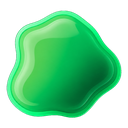
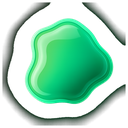
Boot branding, persistence offered from the desktop, wordmark
The boot menu no longer says Debian. A binary hook replaces the swirl splash
with the wordmark and retitles the entries, in isolinux and grub, and warns
loudly if it found neither rather than shipping an image that quietly still
says Debian.

The shell now notices when it booted from live media with unallocated space
left on the stick and offers persistence, instead of it being a feature that
only exists if somebody tells you a command exists. It does not repartition on
a click: the offer opens symbiote-persist, which names the device and its size
and makes you type ERASE.

symbiote-persist gains that `auto` mode — the shell was already calling it
before it existed.

Copyright is Symbiote OS.

diff --git a/shell-qt/qml/components/Taskbar.qml b/shell-qt/qml/components/Taskbar.qml
@@ -62,14 +62,10 @@ Item {
         HoverHandler { id: menuHover }
         TapHandler { onTapped: root.menuToggled() }
 
-        Rectangle {
-            anchors.fill: parent
-            color: (menuHover.hovered || root.launcherOpen)
-                   ? Theme.tint(0.08) : "transparent"
-            border.width: 1
-            border.color: (menuHover.hovered || root.launcherOpen)
-                          ? Theme.accent : Theme.tint(0.10)
-        }
+        /* No frame. The mark is a shape with its own silhouette, and boxing it
+           made the corner look like a button with a sticker on it. The hover
+           state is the mark itself brightening and growing slightly, which is
+           what a physical thing does when you reach for it. */
 
         /* The mass itself. This corner is where a system puts its mark, and
            the shell had a generic app-grid there — correct as a convention,
@@ -79,16 +75,19 @@ Item {
         Image {
             id: menuRow
             anchors.centerIn: parent
-            width: 26; height: 26
-            source: "qrc:/assets/symbiote-64.png"
+            width: 30; height: 30
+            source: "qrc:/assets/symbiote-128.png"
             fillMode: Image.PreserveAspectFit
             smooth: true
             sourceSize.width: 64
             sourceSize.height: 64
             // Dimmed until wanted, so it sits in the bar rather than shouting
             // from it.
-            opacity: (menuHover.hovered || root.launcherOpen) ? 1.0 : 0.82
+            opacity: (menuHover.hovered || root.launcherOpen) ? 1.0 : 0.78
+            scale: (menuHover.hovered || root.launcherOpen) ? 1.12 : 1.0
             Behavior on opacity { NumberAnimation { duration: Theme.durFast } }
+            Behavior on scale { NumberAnimation { duration: Theme.durFast
+                                                  easing.type: Easing.OutCubic } }
         }
     }
 

diff --git a/shell-qt/src/LiveMedium.cpp b/shell-qt/src/LiveMedium.cpp
@@ -1,0 +1,131 @@
+#include "LiveMedium.h"
+
+#include <QFile>
+#include <QDir>
+#include <QFileInfo>
+#include <QProcess>
+#include <QRegularExpression>
+
+namespace {
+
+/* Smaller than this is not worth interrupting anybody for: a persistence
+   overlay in a few hundred megabytes fills up almost immediately. */
+constexpr qint64 MIN_USEFUL = 2LL * 1024 * 1024 * 1024;
+
+QString readFirstLine(const QString &path)
+{
+    QFile f(path);
+    if (!f.open(QIODevice::ReadOnly | QIODevice::Text))
+        return {};
+    return QString::fromUtf8(f.readLine()).trimmed();
+}
+
+} // namespace
+
+LiveMedium::LiveMedium(QObject *parent) : QObject(parent)
+{
+    refresh();
+    connect(&m_timer, &QTimer::timeout, this, &LiveMedium::refresh);
+    // Slow: none of this changes unless somebody runs the tool.
+    m_timer.start(15000);
+}
+
+void LiveMedium::refresh()
+{
+    const bool wasLive = m_live;
+    const bool wasPersistent = m_persistent;
+    const qint64 wasFree = m_freeBytes;
+
+    QFile mounts(QStringLiteral("/proc/mounts"));
+    if (!mounts.open(QIODevice::ReadOnly | QIODevice::Text))
+        return;
+    const QString all = QString::fromUtf8(mounts.readAll());
+
+    // live-boot mounts the image here; on an installed system it does not exist.
+    m_live = all.contains(QLatin1String("/run/live/medium"))
+             || QDir(QStringLiteral("/run/live/medium")).exists();
+    m_persistent = all.contains(QLatin1String("/run/live/persistence"));
+
+    m_device.clear();
+    m_freeBytes = 0;
+
+    if (m_live && !m_persistent) {
+        /* Which partition is the medium, and therefore which disk. The mount
+           line names the partition; its parent is what has the free space. */
+        static const QRegularExpression re(
+            QStringLiteral("^(/dev/\\S+) /run/live/medium "),
+            QRegularExpression::MultilineOption);
+        const auto m = re.match(all);
+        if (m.hasMatch()) {
+            const QString part = QFileInfo(m.captured(1)).fileName();
+            const QString parent =
+                readFirstLine(QStringLiteral("/sys/class/block/%1/../dev").arg(part)).isEmpty()
+                    ? QString() : QString();
+            Q_UNUSED(parent)
+
+            // /sys/class/block/sdb1/.. is the disk's directory.
+            const QDir partDir(QStringLiteral("/sys/class/block/%1").arg(part));
+            const QString diskName = QFileInfo(partDir.absolutePath()).dir().dirName();
+            const QString disk = QDir(QStringLiteral("/sys/class/block/%1/..").arg(part))
+                                     .canonicalPath()
+                                     .section(QLatin1Char('/'), -1);
+            Q_UNUSED(diskName)
+
+            if (!disk.isEmpty() && disk != QLatin1String("block")) {
+                m_device = QStringLiteral("/dev/") + disk;
+
+                // Sizes are in 512-byte sectors regardless of the real block size.
+                const qint64 total =
+                    readFirstLine(QStringLiteral("/sys/class/block/%1/size").arg(disk)).toLongLong();
+
+                // The end of the furthest partition, so free space is what is
+                // past it rather than the difference of the sums — a gap in
+                // the middle is not usable for this.
+                qint64 lastEnd = 0;
+                const QFileInfoList parts =
+                    QDir(QStringLiteral("/sys/class/block/%1").arg(disk))
+                        .entryInfoList(QStringList() << disk + QStringLiteral("*"),
+                                       QDir::Dirs | QDir::NoDotAndDotDot);
+                for (const QFileInfo &p : parts) {
+                    const qint64 start =
+                        readFirstLine(p.absoluteFilePath() + QStringLiteral("/start")).toLongLong();
+                    const qint64 size =
+                        readFirstLine(p.absoluteFilePath() + QStringLiteral("/size")).toLongLong();
+                    lastEnd = qMax(lastEnd, start + size);
+                }
+
+                if (total > lastEnd && lastEnd > 0)
+                    m_freeBytes = (total - lastEnd) * 512;
+            }
+        }
+    }
+
+    if (wasLive != m_live || wasPersistent != m_persistent || wasFree != m_freeBytes)
+        emit changed();
+}
+
+QString LiveMedium::freeHuman() const
+{
+    const double gb = double(m_freeBytes) / (1024.0 * 1024.0 * 1024.0);
+    if (gb >= 1.0)
+        return QString::number(gb, 'f', gb >= 10 ? 0 : 1) + QStringLiteral(" GB");
+    return QString::number(m_freeBytes / (1024 * 1024)) + QStringLiteral(" MB");
+}
+
+bool LiveMedium::canOffer() const
+{
+    return m_live && !m_persistent && m_freeBytes >= MIN_USEFUL;
+}
+
+void LiveMedium::openSetup()
+{
+    /* A terminal, not a silent command. The script names the device and its
+       size and asks for the word ERASE, and that confirmation is the point —
+       a one-click path to repartitioning the disk you booted from is not
+       something to build. */
+    QProcess::startDetached(QStringLiteral("foot"),
+                            {QStringLiteral("-T"), QStringLiteral("Persistence"),
+                             QStringLiteral("sh"), QStringLiteral("-c"),
+                             QStringLiteral("sudo symbiote-persist auto; "
+                                            "echo; exec ${SHELL:-sh}")});
+}

diff --git a/shell-qt/src/LiveMedium.h b/shell-qt/src/LiveMedium.h
@@ -1,0 +1,63 @@
+#pragma once
+
+#include <QObject>
+#include <QTimer>
+
+/*
+ * The medium this system booted from, and whether anything written survives.
+ *
+ * A live image forgets everything on reboot. Persistence fixes that, but it
+ * needs a writable partition labelled "persistence" — and a stick flashed with
+ * dd or Etcher has the image bytes and then unallocated space, so there is
+ * nowhere to write until somebody makes one.
+ *
+ * That "somebody" used to be a person who happened to know a command existed.
+ * This finds the boot device, works out whether there is room, and lets the
+ * interface offer it — the difference between a feature you discover and one
+ * you have to be told about.
+ *
+ * It does not create anything. Repartitioning the medium you are running from
+ * is not a thing to do on a single click, so the offer opens the existing
+ * script, which names the device and its size and makes you type ERASE.
+ */
+class LiveMedium : public QObject
+{
+    Q_OBJECT
+    /** True when running from live media rather than an installed system. */
+    Q_PROPERTY(bool live READ live NOTIFY changed)
+    Q_PROPERTY(bool persistent READ persistent NOTIFY changed)
+    /** The whole disk the image was booted from, e.g. /dev/sdb. */
+    Q_PROPERTY(QString device READ device NOTIFY changed)
+    /** Unallocated bytes past the last partition. Zero when there is none. */
+    Q_PROPERTY(qint64 freeBytes READ freeBytes NOTIFY changed)
+    Q_PROPERTY(QString freeHuman READ freeHuman NOTIFY changed)
+    /** Enough room to be worth offering. */
+    Q_PROPERTY(bool canOffer READ canOffer NOTIFY changed)
+
+public:
+    explicit LiveMedium(QObject *parent = nullptr);
+
+    bool live() const { return m_live; }
+    bool persistent() const { return m_persistent; }
+    QString device() const { return m_device; }
+    qint64 freeBytes() const { return m_freeBytes; }
+    QString freeHuman() const;
+    bool canOffer() const;
+
+    /** Open the persistence tool in a terminal. Confirmation stays in there. */
+    Q_INVOKABLE void openSetup();
+
+signals:
+    void changed();
+
+private slots:
+    void refresh();
+
+private:
+    bool m_live = false;
+    bool m_persistent = false;
+    QString m_device;
+    qint64 m_freeBytes = 0;
+
+    QTimer m_timer;
+};

diff --git a/shell-qt/src/main.cpp b/shell-qt/src/main.cpp
@@ -24,6 +24,7 @@
 #include "ToplevelManager.h"
 #include "MediaService.h"
 #include "KeyboardService.h"
+#include "LiveMedium.h"
 
 /*
  * Symbiote Shell — Qt/QML.
@@ -103,6 +104,7 @@ int main(int argc, char *argv[])
     ToplevelManager toplevels;
     MediaService media;
     KeyboardService keyboard;
+    LiveMedium medium;
 
     QQmlApplicationEngine engine;
     auto *ctx = engine.rootContext();
@@ -118,6 +120,7 @@ int main(int argc, char *argv[])
     ctx->setContextProperty(QStringLiteral("Windows"), &toplevels);
     ctx->setContextProperty(QStringLiteral("Media"), &media);
     ctx->setContextProperty(QStringLiteral("Keyboard"), &keyboard);
+    ctx->setContextProperty(QStringLiteral("Medium"), &medium);
     ctx->setContextProperty(QStringLiteral("uiScale"), scale);
     /* Lets the scene decide how much it can afford to draw. A GPU renders the
        hologram for free; rasterising it in software costs two thirds of the

diff --git a/README.md b/README.md
@@ -1,8 +1,6 @@
 <p align="center">
-  <img src="docs/img/logo.png" width="128" alt="Symbiote OS">
+  <img src="docs/img/wordmark.png" width="480" alt="Symbiote OS">
 </p>
-
-<h1 align="center">Symbiote OS</h1>
 
 <p align="center">
   A Debian live distribution with a cinematic FUI desktop shell, built for
